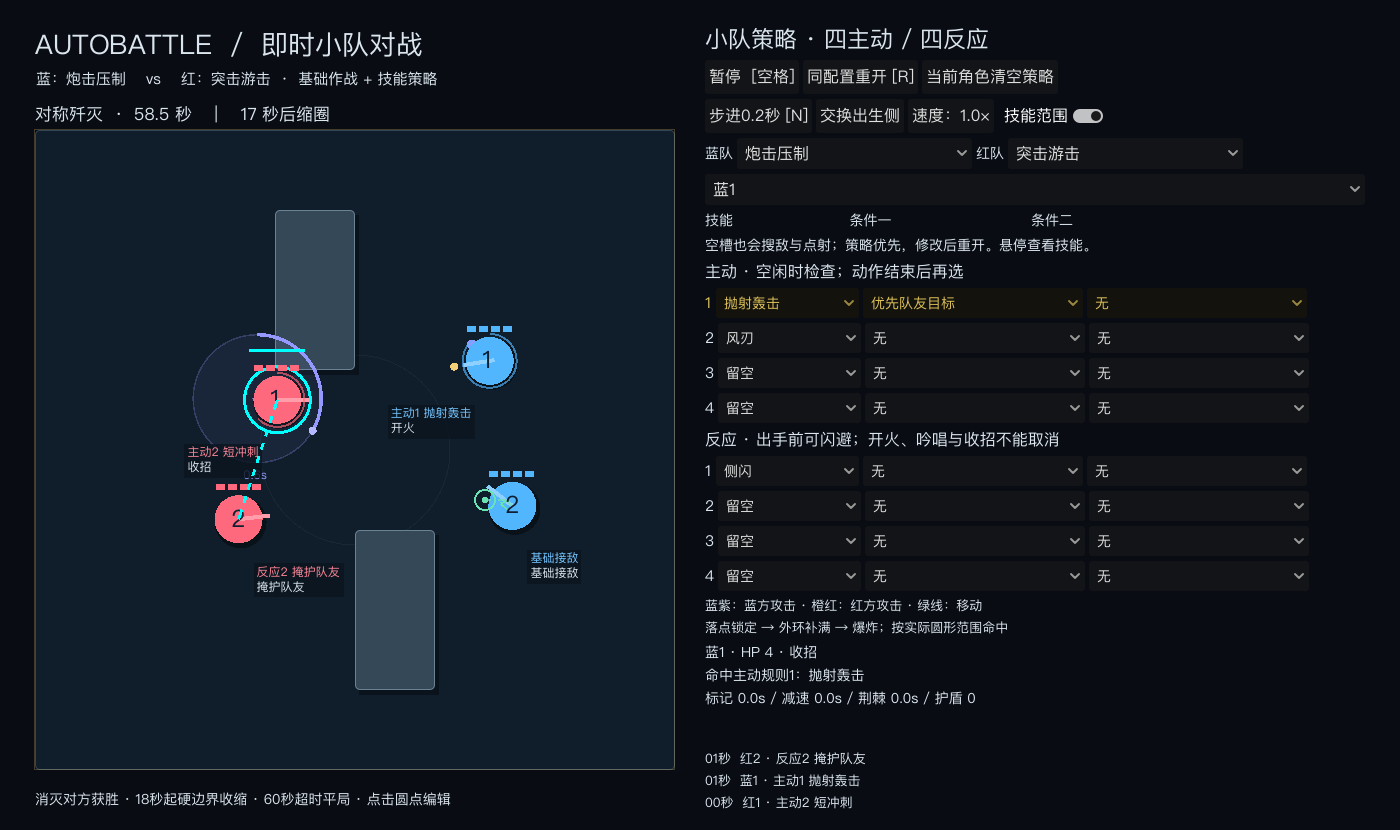
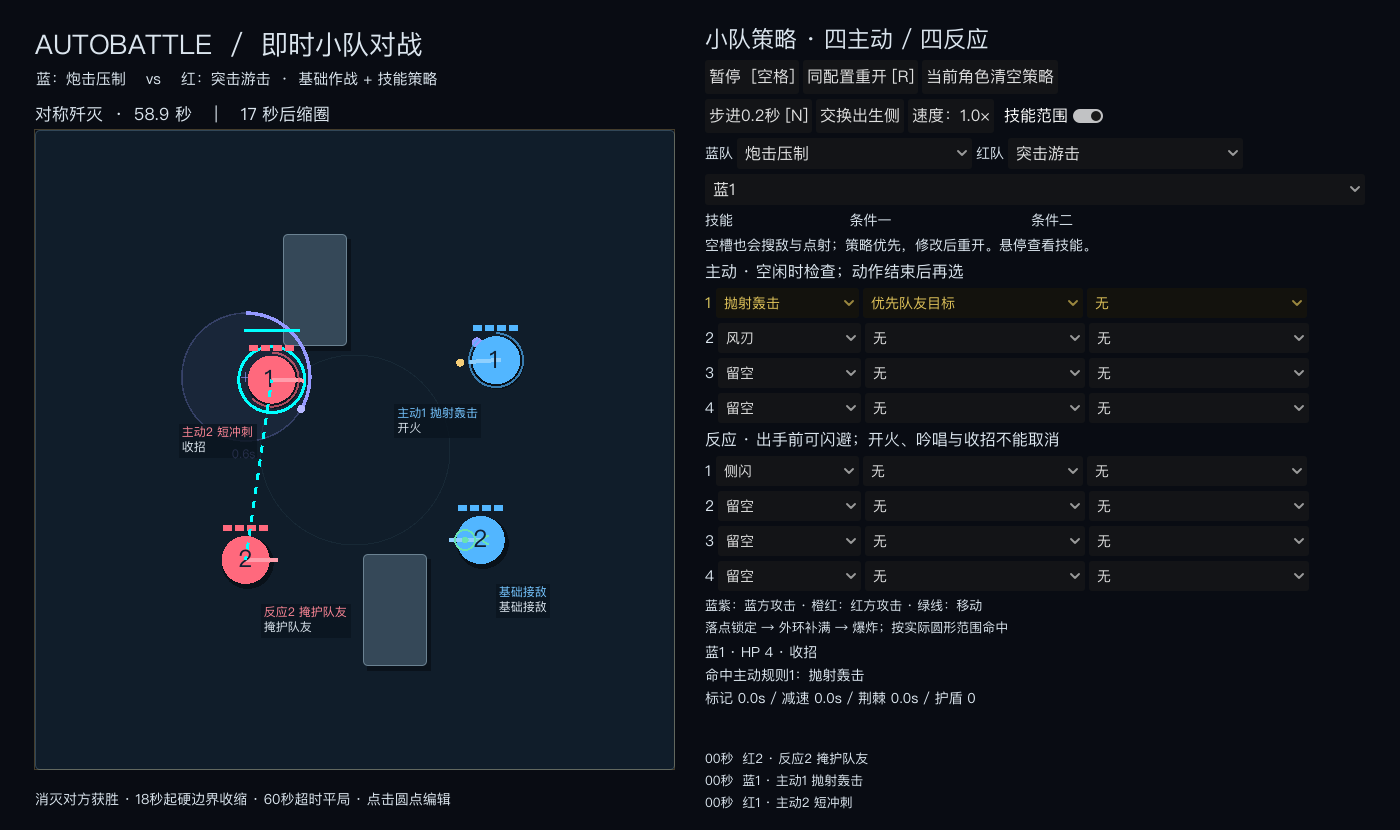
缩小掩体并区分快速接敌与慢速周旋

diff --git a/README.md b/README.md
@@ -25,6 +25,9 @@
 
 ## 战斗节奏
 
+- 两块掩体各64×112像素，位置中心不变，扩大绕行空间。
+- 基础接敌/搜索速度126像素/秒；接敌后的侧移40像素/秒；常规避险仍为87像素/秒，侧闪技能仍为200像素/秒。侧移受射线、射程和碰撞约束，不引入随机数。
+
 - 普通射击/霰弹/炮击收招0.3秒，重射/岩弹0.6秒；之后武器恢复0.55秒。
 - 霰弹准备0.25秒，落岩0.35秒；风系两发间隔0.22秒。长激光仍蓄力1.1秒、收招0.8秒。
 - 武器恢复时，基础行为做最多32像素的小幅侧移，面朝敌人，保持射程与视线；无安全位置则守住射位。
